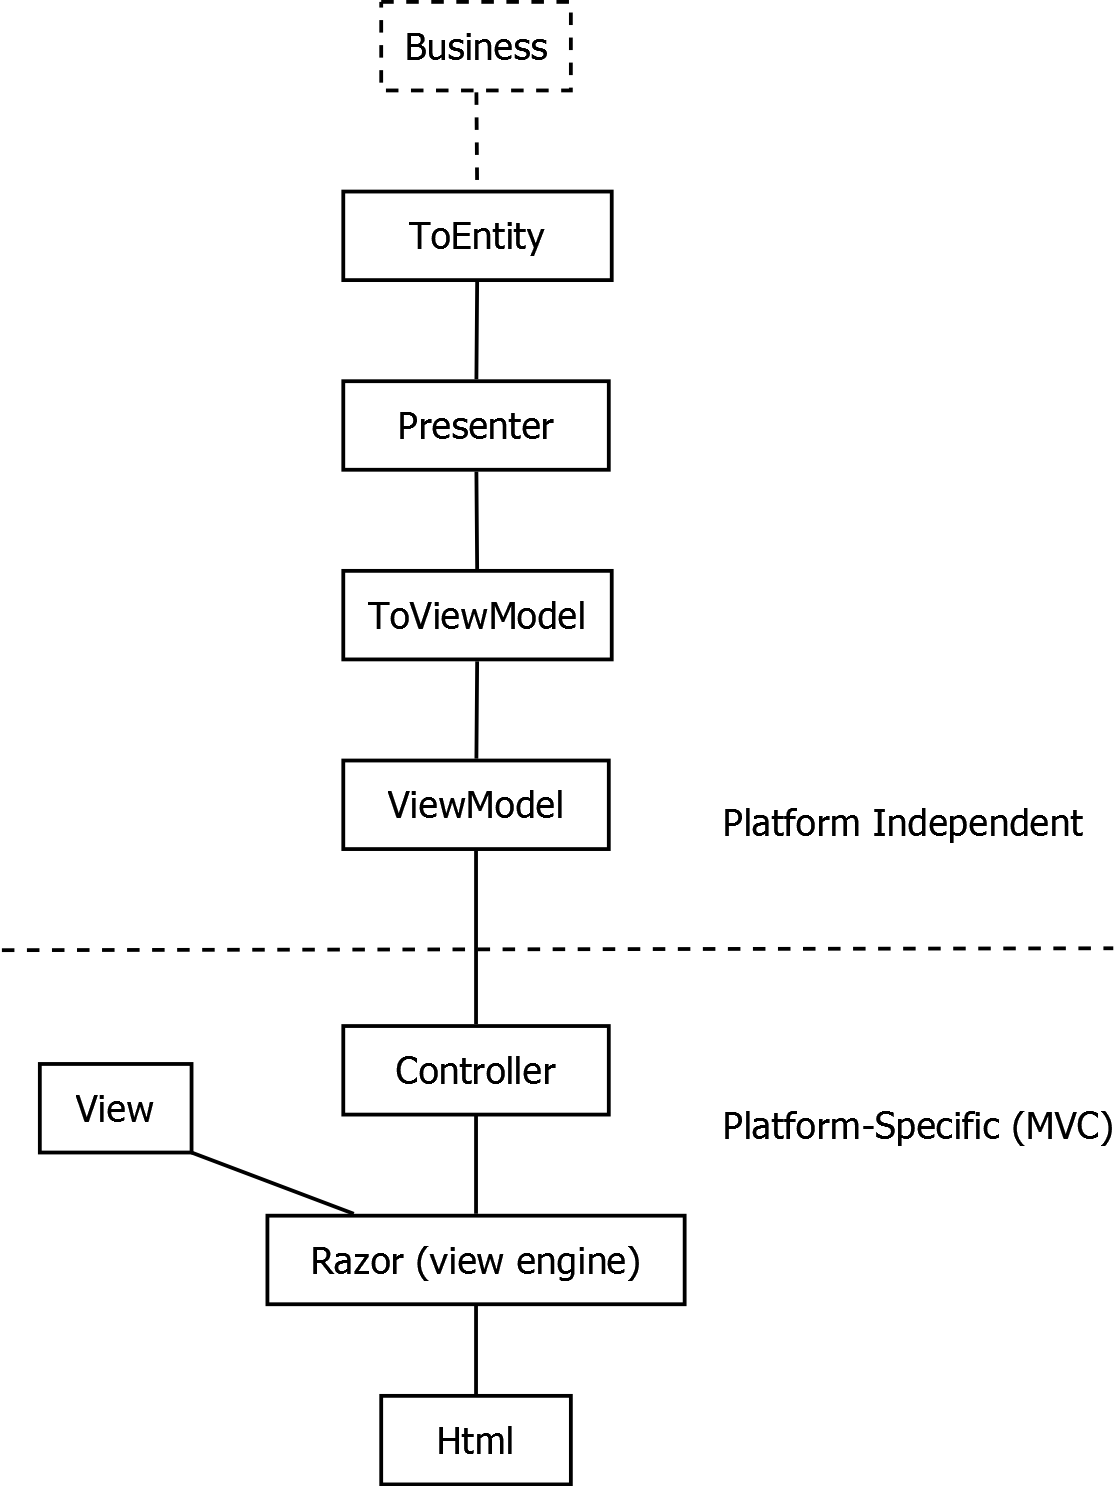
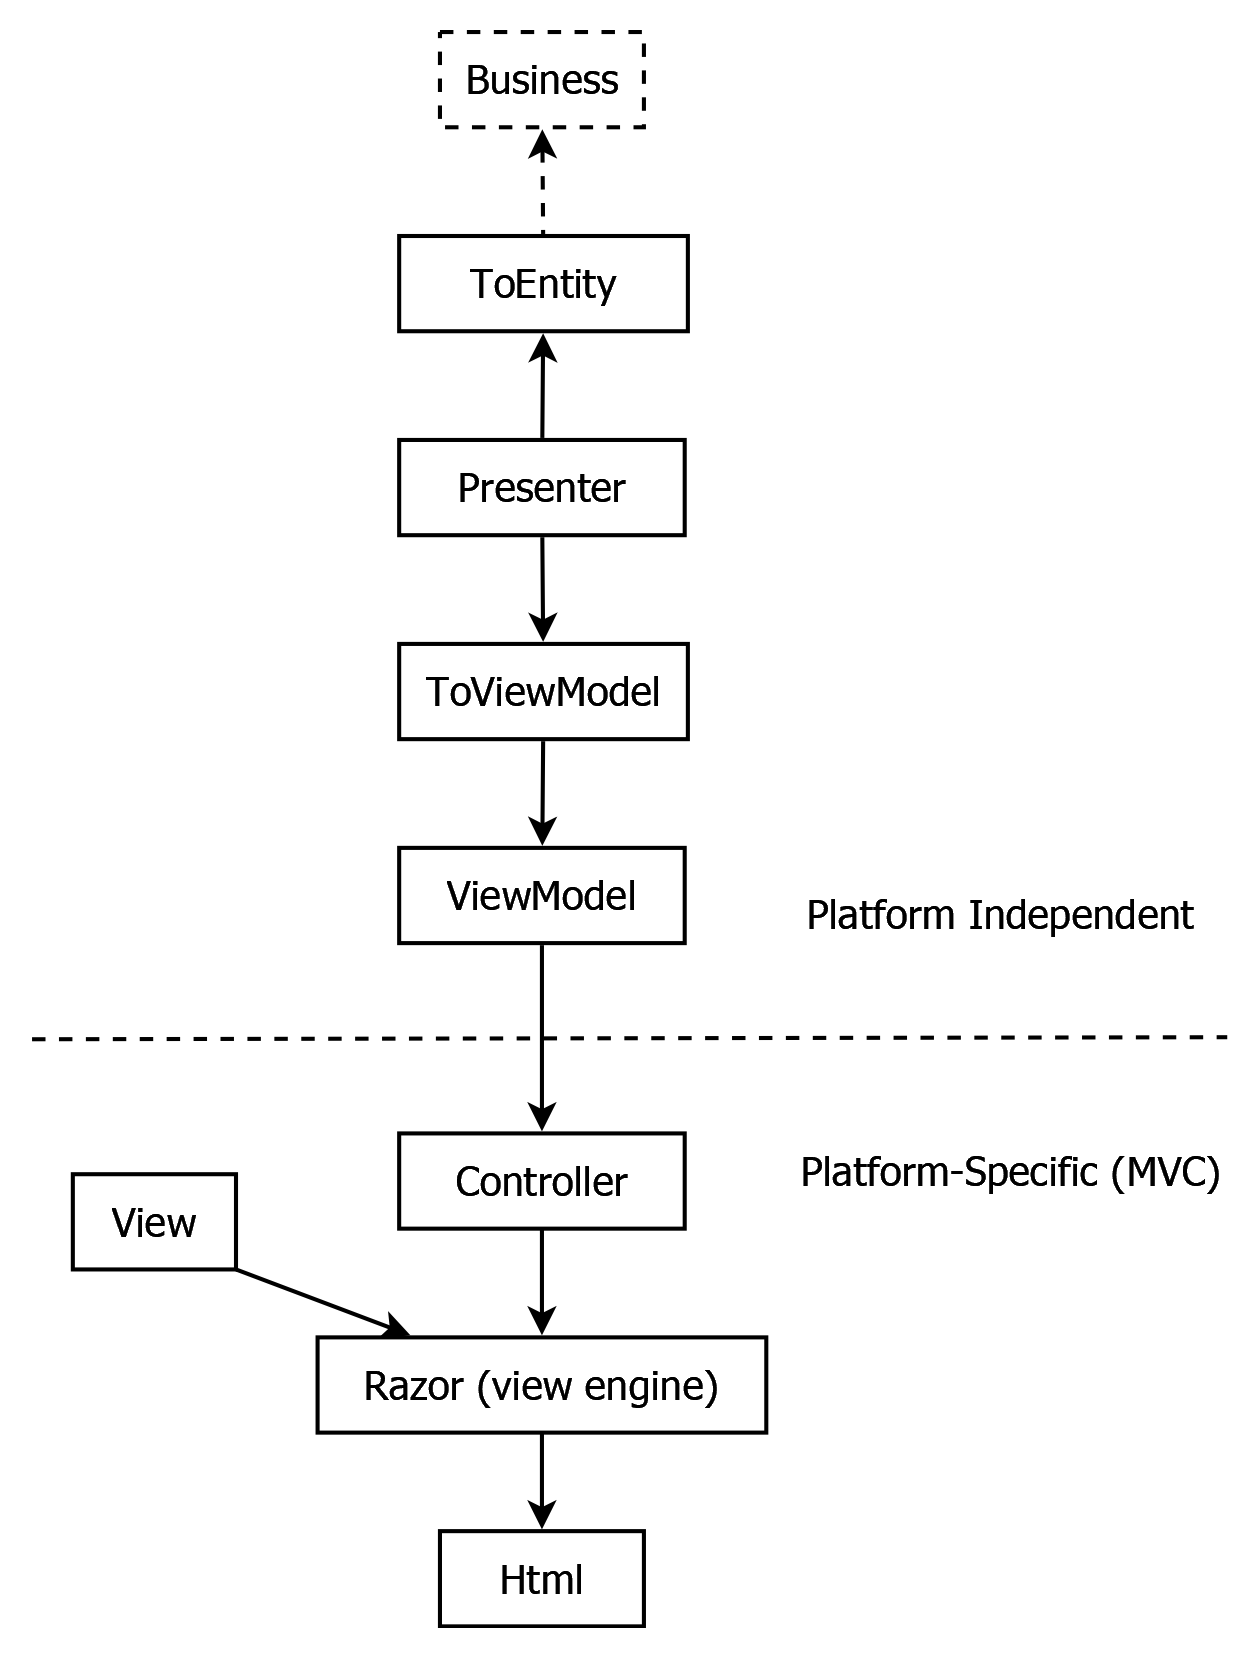
↗ Presentation Layer: Adding arrows to the diagram. Data Layer: Minor changes.

diff --git a/layers.md b/layers.md
@@ -45,15 +45,13 @@ The data layer may be programmed with mostly fixed patterns in this architecture
 Data Layer
 ----------
 
-`[ TODO: Links to Patterns or API's sections. ]`
-
 A data layer can be built up of the following sub-layers:
 
 <img src="images/data-layer.png" width="400" />
 
 ### Database (DB)
 
-It starts with the database (DB). This can be a *relational database* like `Microsoft SQL Server`, that structuredly stores the data into tables and relationships. But the it could also be another type of data store: an [`XML`](apis.md#xml) file, flat file or even just in-memory data. It's the part where the data is stored.
+It starts with the database (DB). This can be a *relational database* like `Microsoft SQL Server`, that structuredly stores the data into tables and relationships. But the it could also be another type of data store: an [`XML`](apis.md#xml) file, flat file or even just in-memory data, wherever the data is *stored*.
 
 ### ORM (NHibernate)
 
@@ -63,7 +61,7 @@ It could also be a different data access technology, instead of [`NHibernate`](a
 
 ### Mappings
 
-The [entity objects](patterns.md#entity) have properties, that map to columns in the database, and properties that point to related entities. [`NHibernate`](apis.md#nhibernate) needs [mappings](patterns.md#mapping), that define which *class* maps to which *table* and which *columns* map to which *properties*. `FluentNHibernate` is an `API` that can help to build up these [mappings](patterns.md#mapping).
+The [entity objects](patterns.md#entity) have properties, that map to columns in the database, and properties that point to related entities. [`NHibernate`](apis.md#nhibernate) needs [mappings](patterns.md#mapping), that define which *class* maps to which *table* and which *columns* map to which *properties*. [`FluentNHibernate`](https://www.nuget.org/packages/FluentNHibernate) is an `API` that can help to build up these [mappings](patterns.md#mapping).
 
 ### Entities
 
@@ -85,15 +83,13 @@ The dashed line going right through the [diagram](#data-layer), separates the *p
 Presentation Layer
 ------------------
 
-`[ TODO: More clarifying sentences. ]`  
 `[ TODO: Sub-sections. ]`  
-`[ TODO: Arrows in the diagram. ]`  
+`[ TODO: More clarifying sentences. ]`  
+`[ TODO: Links to Patterns or API's sections. ]`
 
 The presentation layer is built up of the following sub-layers:
 
 <img src="images/presentation-layer.png" width="449" />
-
-`< TODO: ToEntity is in a really odd spot if you read the diagram from top to bottom. >`
 
 The presentation layer calls the business layer, which contains all the rules that surround the system.
 
